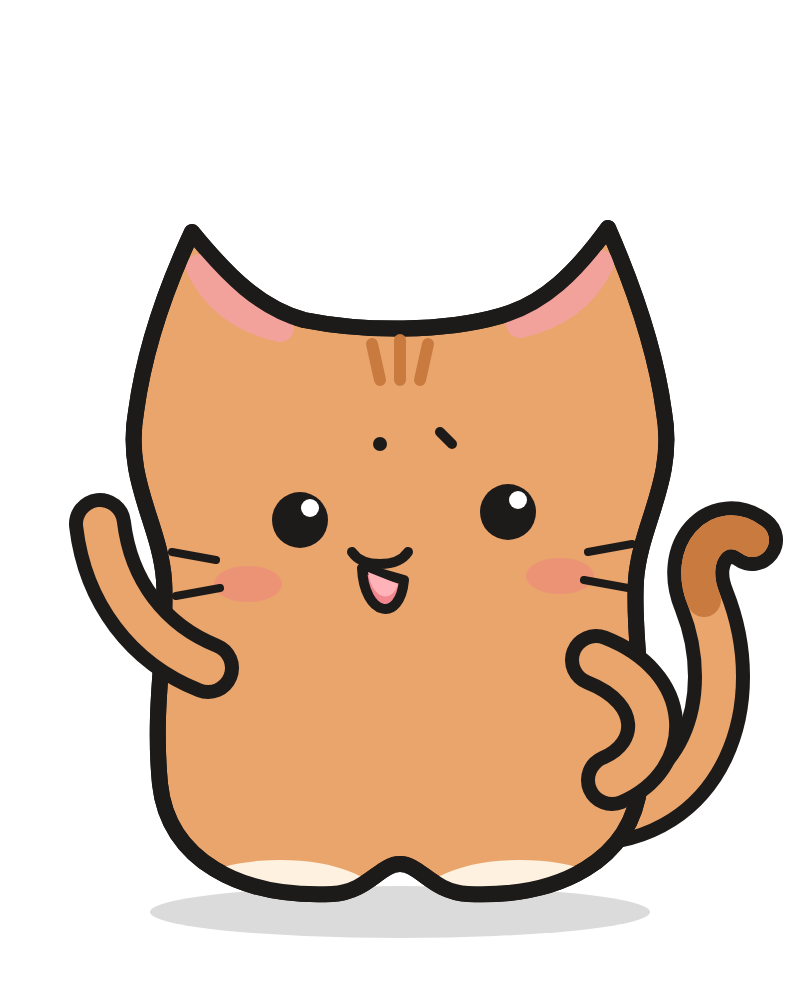
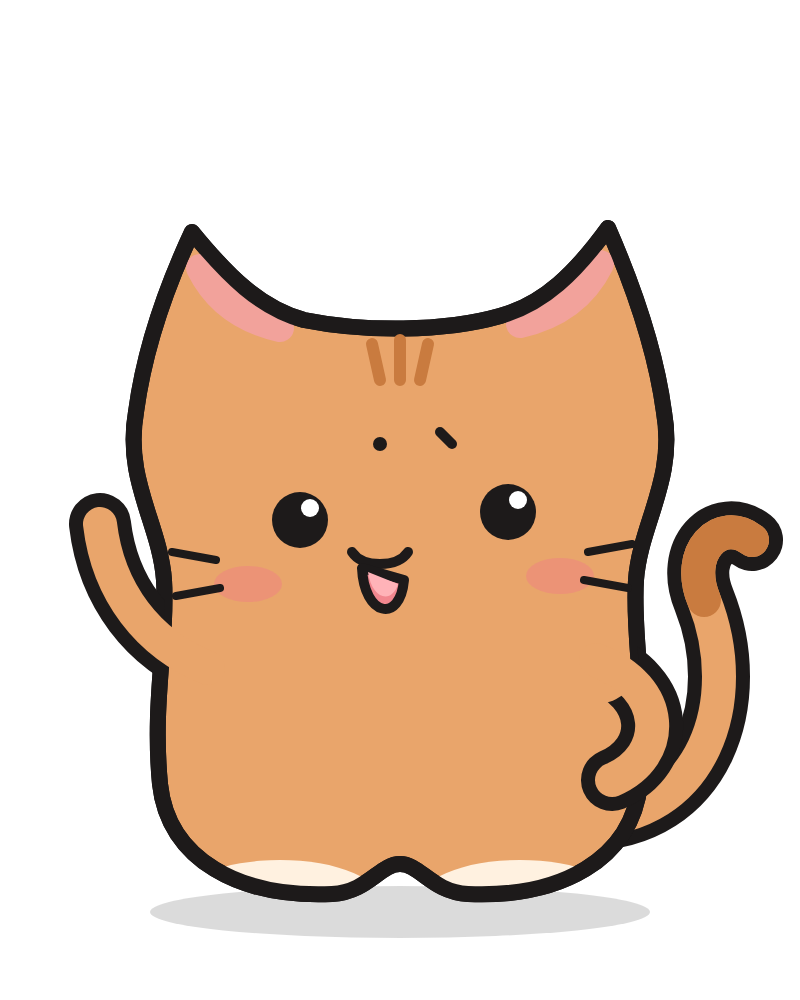
Blend arm outlines into the body at the shoulder
Claude-Session: https://claude.ai/code/session_01WopMkcLvWqfaJwoxBBe3rR

Changed region(s): [[0.1875, 0.62, 0.3125, 0.713], [0.6875, 0.62, 0.7812, 0.713]]

diff --git a/characters/cat.py b/characters/cat.py
@@ -34,9 +34,17 @@ def L(name, content, pivot=None, hidden=False):
             f'inkscape:label="{name}"{piv}{hid}>\n{content}\n</g>')
 
 
-def noodle(d, fill, w=17):
+def shoulder_mask(mid, clip_id, cx, cy, r=40):
+    """Hide the arm outline where it overlaps the body near the shoulder, so the arm reads as attached."""
+    return (f'<mask id="{mid}" maskUnits="userSpaceOnUse" x="0" y="0" width="400" height="500">'
+            f'<rect width="400" height="500" fill="#fff"/>'
+            f'<circle cx="{cx}" cy="{cy}" r="{r}" fill="#000" clip-path="url(#{clip_id})"/></mask>')
+
+
+def noodle(d, fill, w=17, mask=None):
     """Arm/tail drawn as a thick outlined stroke."""
-    return (f'<path d="{d}" fill="none" stroke="{INK}" stroke-width="{w + 14}" stroke-linecap="round" stroke-linejoin="round"/>'
+    m = f' mask="url(#{mask})"' if mask else ""
+    return (f'<path d="{d}"{m} fill="none" stroke="{INK}" stroke-width="{w + 14}" stroke-linecap="round" stroke-linejoin="round"/>'
             f'<path d="{d}" fill="none" stroke="{fill}" stroke-width="{w}" stroke-linecap="round" stroke-linejoin="round"/>')
 
 
@@ -80,12 +88,14 @@ layers = [
         "</g>",
     ]), (200, 440)),
     # left arm waves up, right hand rests on the hip
-    L("arm-left", noodle("M104,334 C74,322 54,296 50,262", FUR), (104, 334)),
-    L("arm-right", noodle("M298,330 C334,344 334,378 306,390", FUR), (298, 330)),
+    L("arm-left", noodle("M104,334 C74,322 54,296 50,262", FUR, mask="tofu-arm-left-m"), (104, 334)),
+    L("arm-right", noodle("M298,330 C334,344 334,378 306,390", FUR, mask="tofu-arm-right-m"), (298, 330)),
 ]
 
 CHAR = "\n".join(layers)
-DEFS = f'<clipPath id="tofu-clip"><path d="{BODY}"/></clipPath>'
+DEFS = (f'<clipPath id="tofu-clip"><path d="{BODY}"/></clipPath>'
+        + shoulder_mask("tofu-arm-left-m", "tofu-clip", 104, 334)
+        + shoulder_mask("tofu-arm-right-m", "tofu-clip", 298, 330, r=22))
 HEAD = ('<svg xmlns="http://www.w3.org/2000/svg" xmlns:inkscape="http://www.inkscape.org/namespaces/inkscape" '
         'xmlns:xlink="http://www.w3.org/1999/xlink"')
 

diff --git a/characters/bears.py b/characters/bears.py
@@ -31,8 +31,16 @@ def L(name, content, pivot=None, hidden=False):
             f'inkscape:label="{name}"{piv}{hid}>\n{content}\n</g>')
 
 
-def noodle(d, fill, w=17):
-    return (f'<path d="{d}" fill="none" stroke="{INK}" stroke-width="{w + 14}" stroke-linecap="round" stroke-linejoin="round"/>'
+def shoulder_mask(mid, clip_id, cx, cy, r=40):
+    """Hide the arm outline where it overlaps the body near the shoulder, so the arm reads as attached."""
+    return (f'<mask id="{mid}" maskUnits="userSpaceOnUse" x="0" y="0" width="400" height="500">'
+            f'<rect width="400" height="500" fill="#fff"/>'
+            f'<circle cx="{cx}" cy="{cy}" r="{r}" fill="#000" clip-path="url(#{clip_id})"/></mask>')
+
+
+def noodle(d, fill, w=17, mask=None):
+    m = f' mask="url(#{mask})"' if mask else ""
+    return (f'<path d="{d}"{m} fill="none" stroke="{INK}" stroke-width="{w + 14}" stroke-linecap="round" stroke-linejoin="round"/>'
             f'<path d="{d}" fill="none" stroke="{fill}" stroke-width="{w}" stroke-linecap="round" stroke-linejoin="round"/>')
 
 
@@ -105,12 +113,15 @@ def bear(key, fur, ear_in, muzzle, female, wave_side):
         layers.append(extra)  # tuft sits behind the head outline
     layers += [
         L("body", "\n".join(body_inner), (200, 440)),
-        L("arm-left", noodle(arm_l, fur), (104, 332)),
-        L("arm-right", noodle(arm_r, fur), (296, 332)),
+        L("arm-left", noodle(arm_l, fur, mask=f"{key}-arm-left-m"), (104, 332)),
+        L("arm-right", noodle(arm_r, fur, mask=f"{key}-arm-right-m"), (296, 332)),
     ]
     if female:
         layers.append(extra)  # bow sits on top of the ear
-    return "\n".join(layers), f'<clipPath id="{key}-clip"><path d="{BODY}"/></clipPath>'
+    defs = (f'<clipPath id="{key}-clip"><path d="{BODY}"/></clipPath>'
+            + shoulder_mask(f"{key}-arm-left-m", f"{key}-clip", 104, 332, r=40 if wave_side == "left" else 22)
+            + shoulder_mask(f"{key}-arm-right-m", f"{key}-clip", 296, 332, r=40 if wave_side == "right" else 22))
+    return "\n".join(layers), defs
 
 
 BEARS = {
